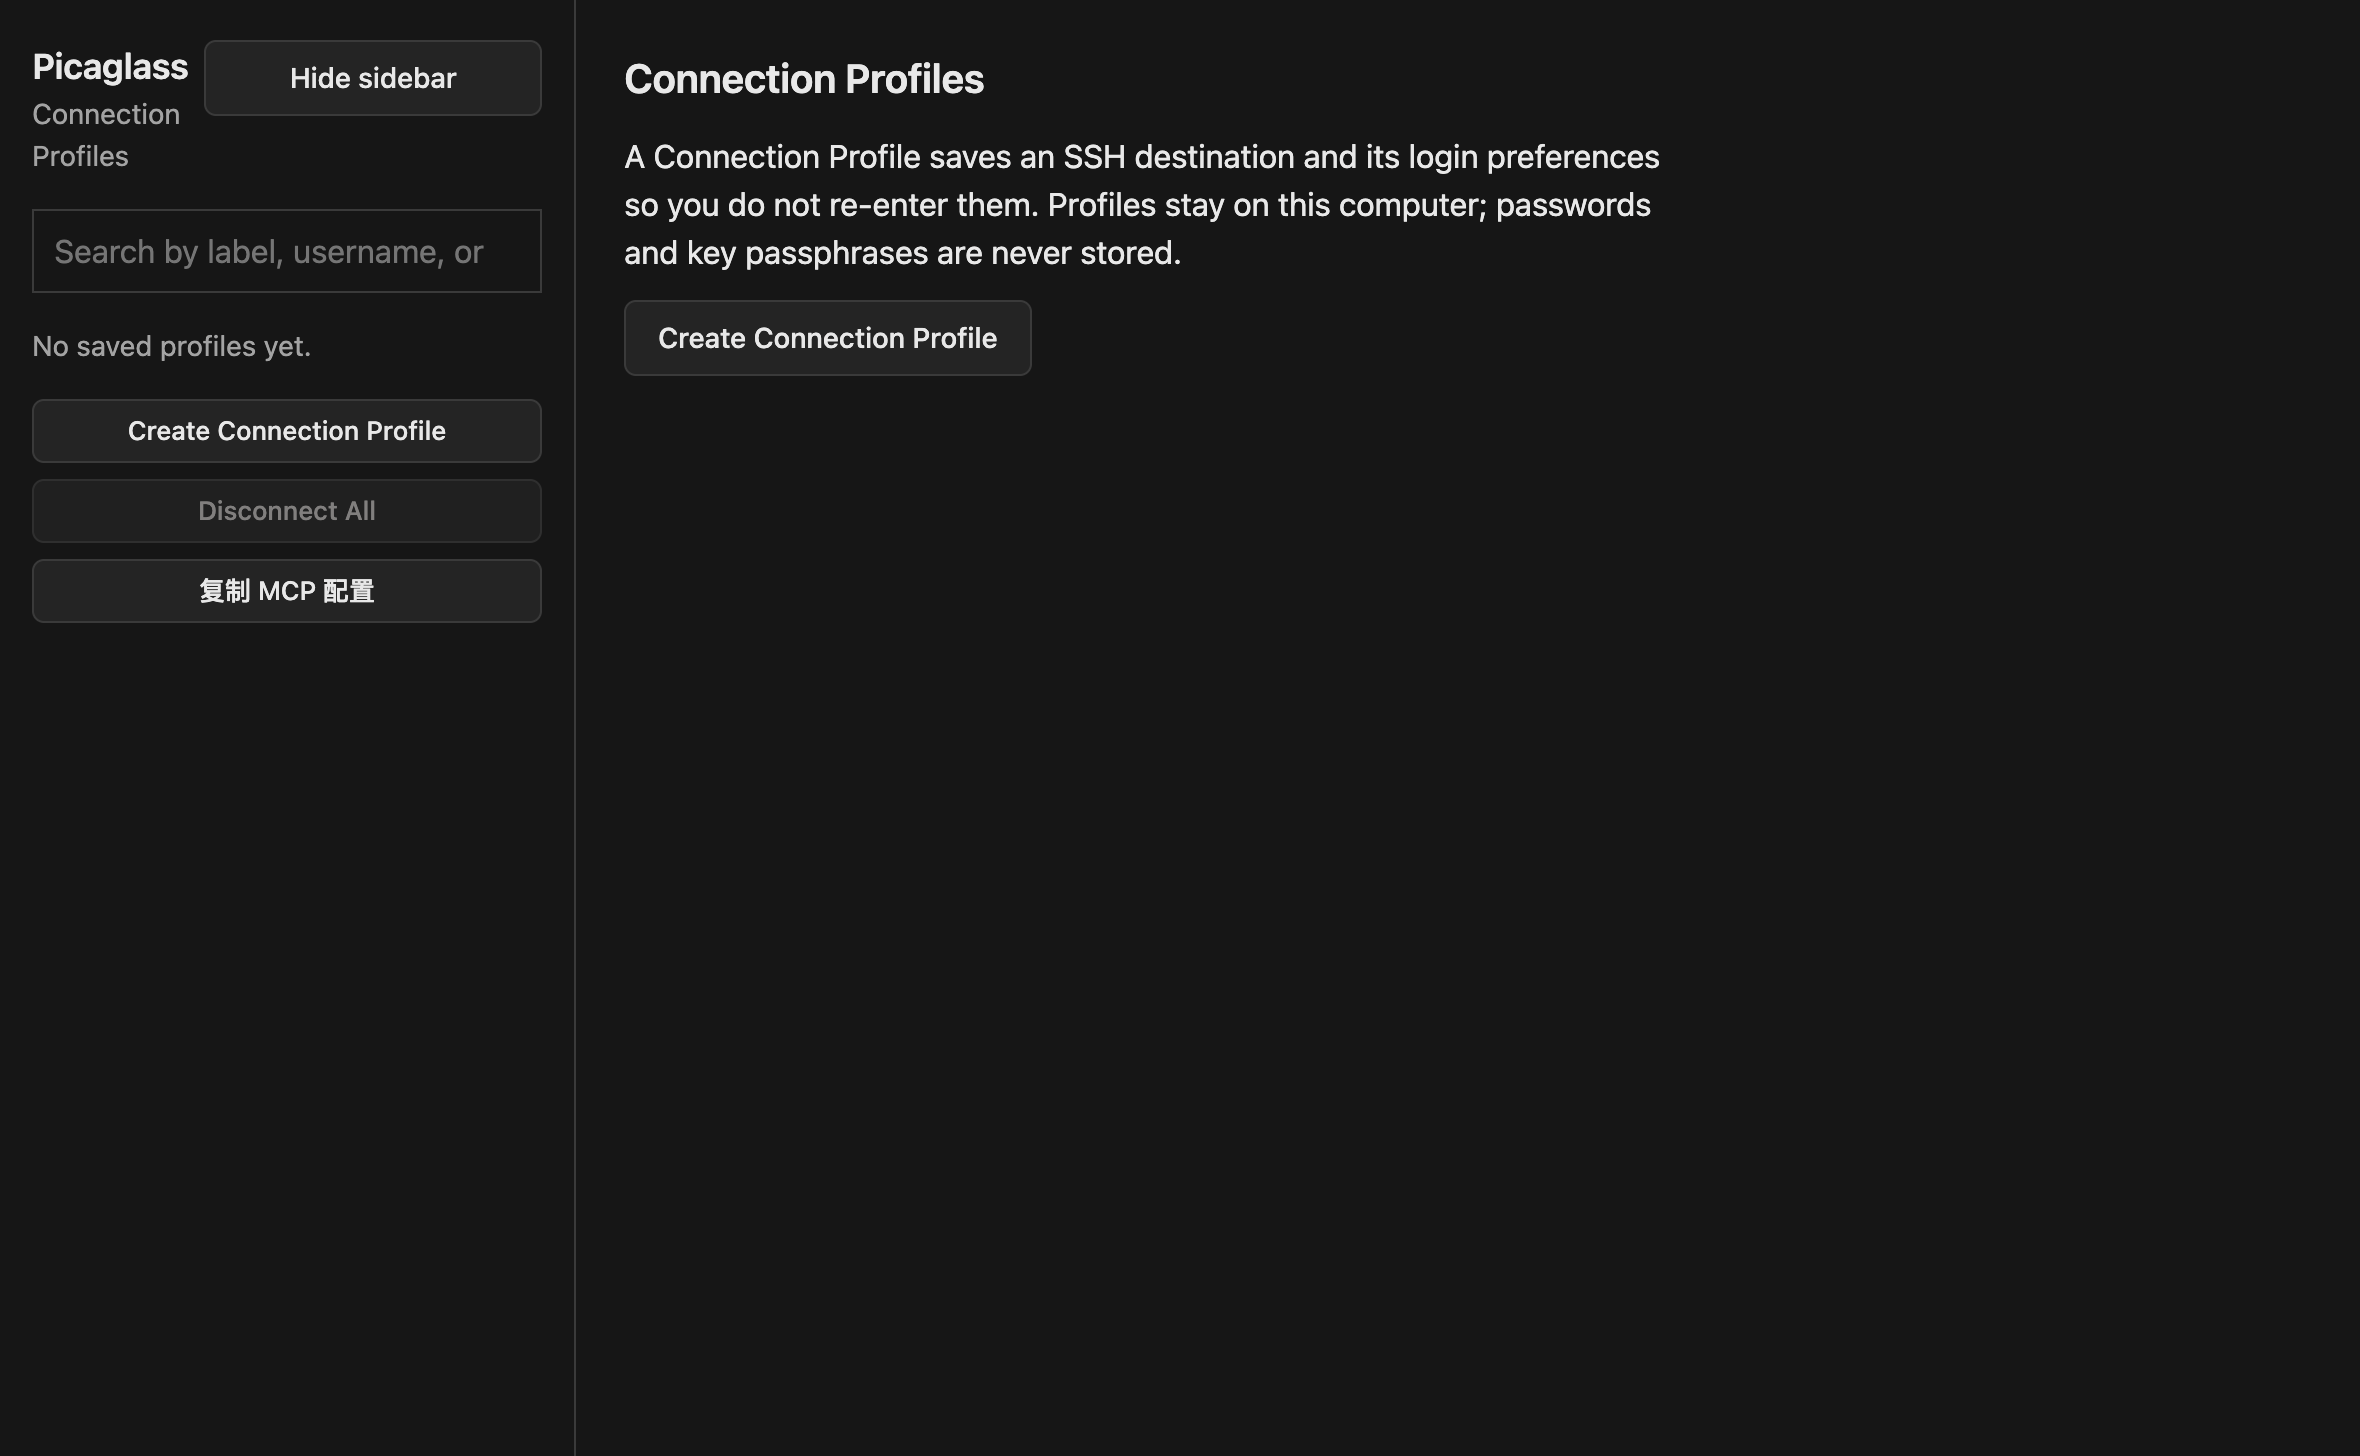
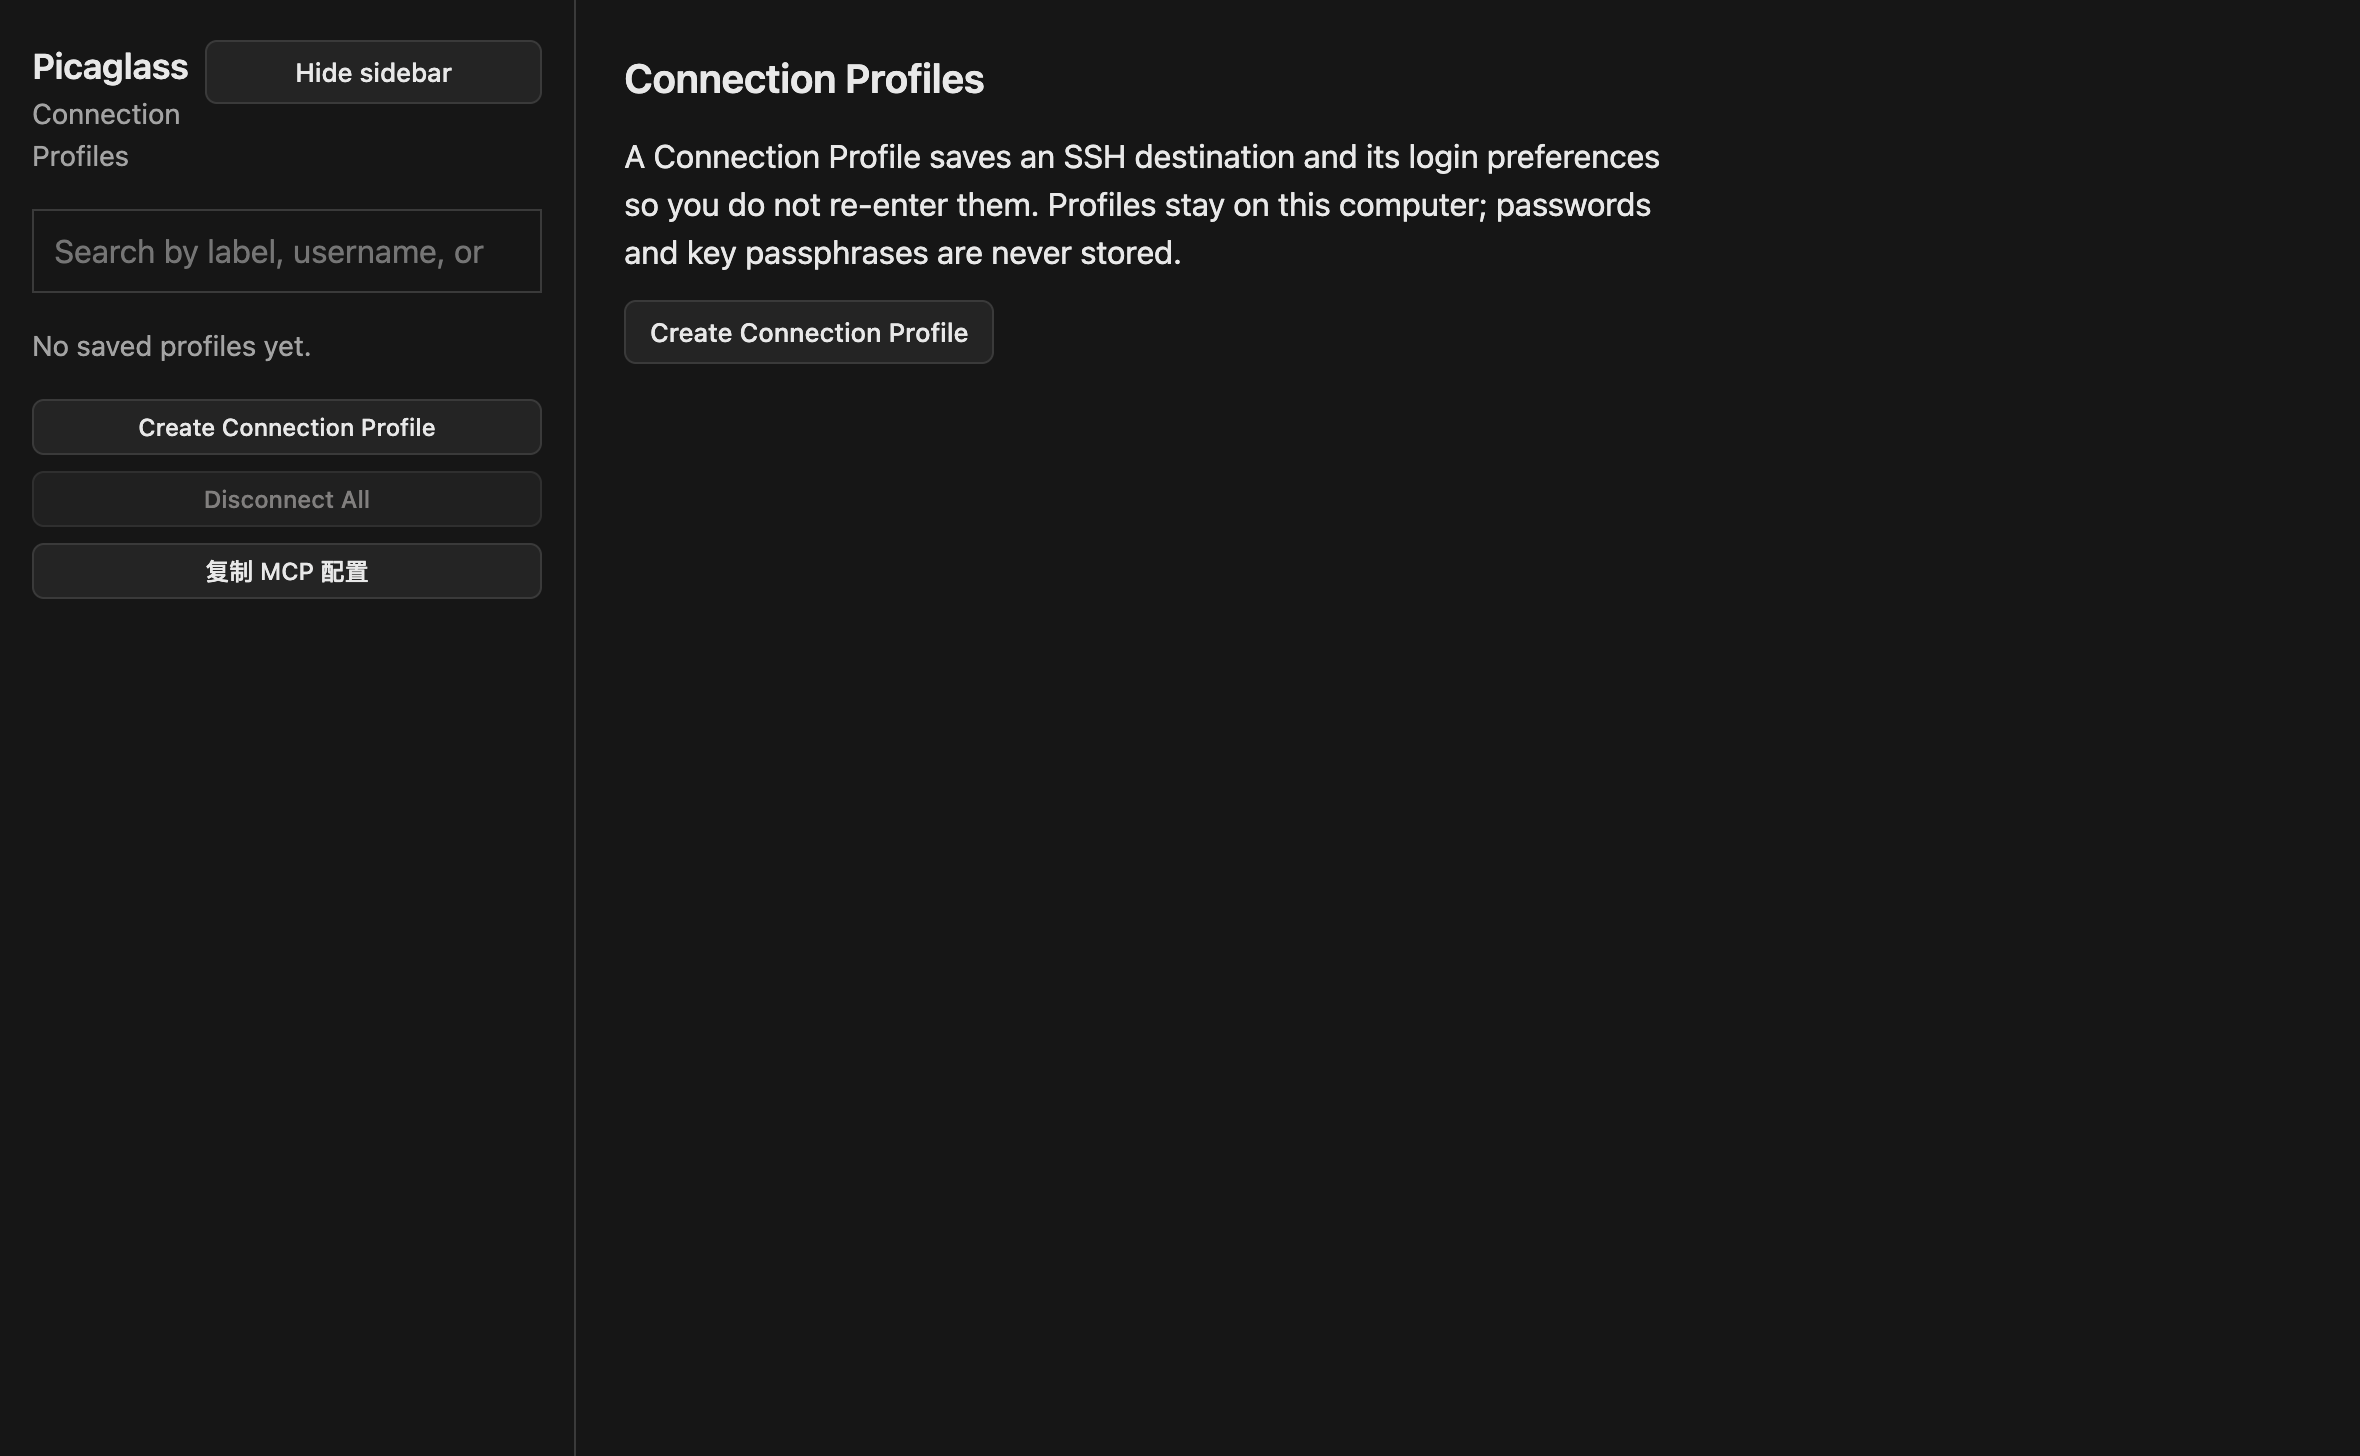
prototype(#58): 收敛变体 A = 描边 + 32/28 尺寸 + 浅红 danger + 全大写小标签
用户拍板（2026-01-15 会话）：底色路线取 A 描边派；尺寸阶梯取 C 的
32/28px（13/12px 字）；danger 取 B 的浅红填充深红字；C 的 12px 全大写
表单标签带进。B/C 变体保留作对照。

Changed region(s): [[0.0619, 0.2782, 0.1856, 0.4327], [0.2784, 0.2163, 0.4331, 0.2473], [0.1237, 0.0309, 0.1856, 0.0618]]

diff --git a/src/renderer/src/assets/prototype-controls.css b/src/renderer/src/assets/prototype-controls.css
@@ -5,8 +5,8 @@
  * 按钮层级/尺寸/状态长什么样。方向基准已由 map Notes 锁定（Twingate
  * 两级体系），变体在「描边 vs 填充」「尺寸阶梯」「密度」上结构性不同：
  *
- *   A 描边派：Tailscale 源码路线。白底 + 1px 灰边 + 微投影，radius 6px，
- *     38/32 两档高。焦点用 2px outline。
+ *   A 收敛版：描边派（Tailscale 源码路线）+ 用户拍板的 C 尺寸档与
+ *     全大写小标签 + B 的浅红填充 danger。32/28px、radius 6px、焦点 2px outline。
  *   B 填充派：Twingate 截图路线。浅灰填充无边框，radius 8px，36/32 两档。
  *     焦点用三层 ring。
  *   C 紧凑派：回应「工作区太挤」。32/28 高度、13px 字、radius 5px。
@@ -18,12 +18,12 @@
 /* ---------- 变体 token ---------- */
 
 html[data-pc='A'] {
-  --pc-h: 38px;
-  --pc-h-sm: 32px;
-  --pc-pad: 8px 16px;
-  --pc-pad-sm: 4px 12px;
-  --pc-font-size: 14px;
-  --pc-font-size-sm: 13px;
+  --pc-h: 32px;
+  --pc-h-sm: 28px;
+  --pc-pad: 5px 12px;
+  --pc-pad-sm: 3px 10px;
+  --pc-font-size: 13px;
+  --pc-font-size-sm: 12px;
   --pc-font-weight: 500;
   --pc-radius: 6px;
   --pc-accent: #3f5db3;
@@ -42,11 +42,11 @@ html[data-pc='A'] {
   --pc-primary-hover-bg: #444342;
   --pc-primary-hover-border: 1px solid #444342;
 
-  --pc-danger-bg: #ffffff;
+  --pc-danger-bg: #fdecec;
   --pc-danger-color: #940821;
-  --pc-danger-border: 1px solid #dad6d5;
-  --pc-danger-hover-bg: #fff7f7;
-  --pc-danger-hover-border: 1px solid #f68f87;
+  --pc-danger-border: 1px solid transparent;
+  --pc-danger-hover-bg: #fbdcdc;
+  --pc-danger-hover-border: 1px solid transparent;
 
   --pc-quiet-color: #706e6d;
   --pc-quiet-hover-bg: #f7f5f4;
@@ -58,11 +58,11 @@ html[data-pc='A'] {
   --pc-input-hover-border: 1px solid #afacab;
   --pc-input-focus-bg: #ffffff;
 
-  --pc-label-size: 14px;
-  --pc-label-color: #232222;
-  --pc-label-transform: none;
-  --pc-label-spacing: normal;
-  --pc-form-gap: 16px;
+  --pc-label-size: 12px;
+  --pc-label-color: #706e6d;
+  --pc-label-transform: uppercase;
+  --pc-label-spacing: 0.04em;
+  --pc-form-gap: 12px;
 }
 
 html[data-pc='B'] {

diff --git a/src/renderer/src/PrototypeControlsSwitcher.svelte b/src/renderer/src/PrototypeControlsSwitcher.svelte
@@ -7,7 +7,7 @@
 -->
 <script lang="ts">
   const VARIANTS = [
-    { key: 'A', name: '描边派 38/32 · r6' },
+    { key: 'A', name: '收敛版 描边 32/28 · r6' },
     { key: 'B', name: '填充派 36/32 · r8' },
     { key: 'C', name: '紧凑派 32/28 · r5' }
   ] as const
